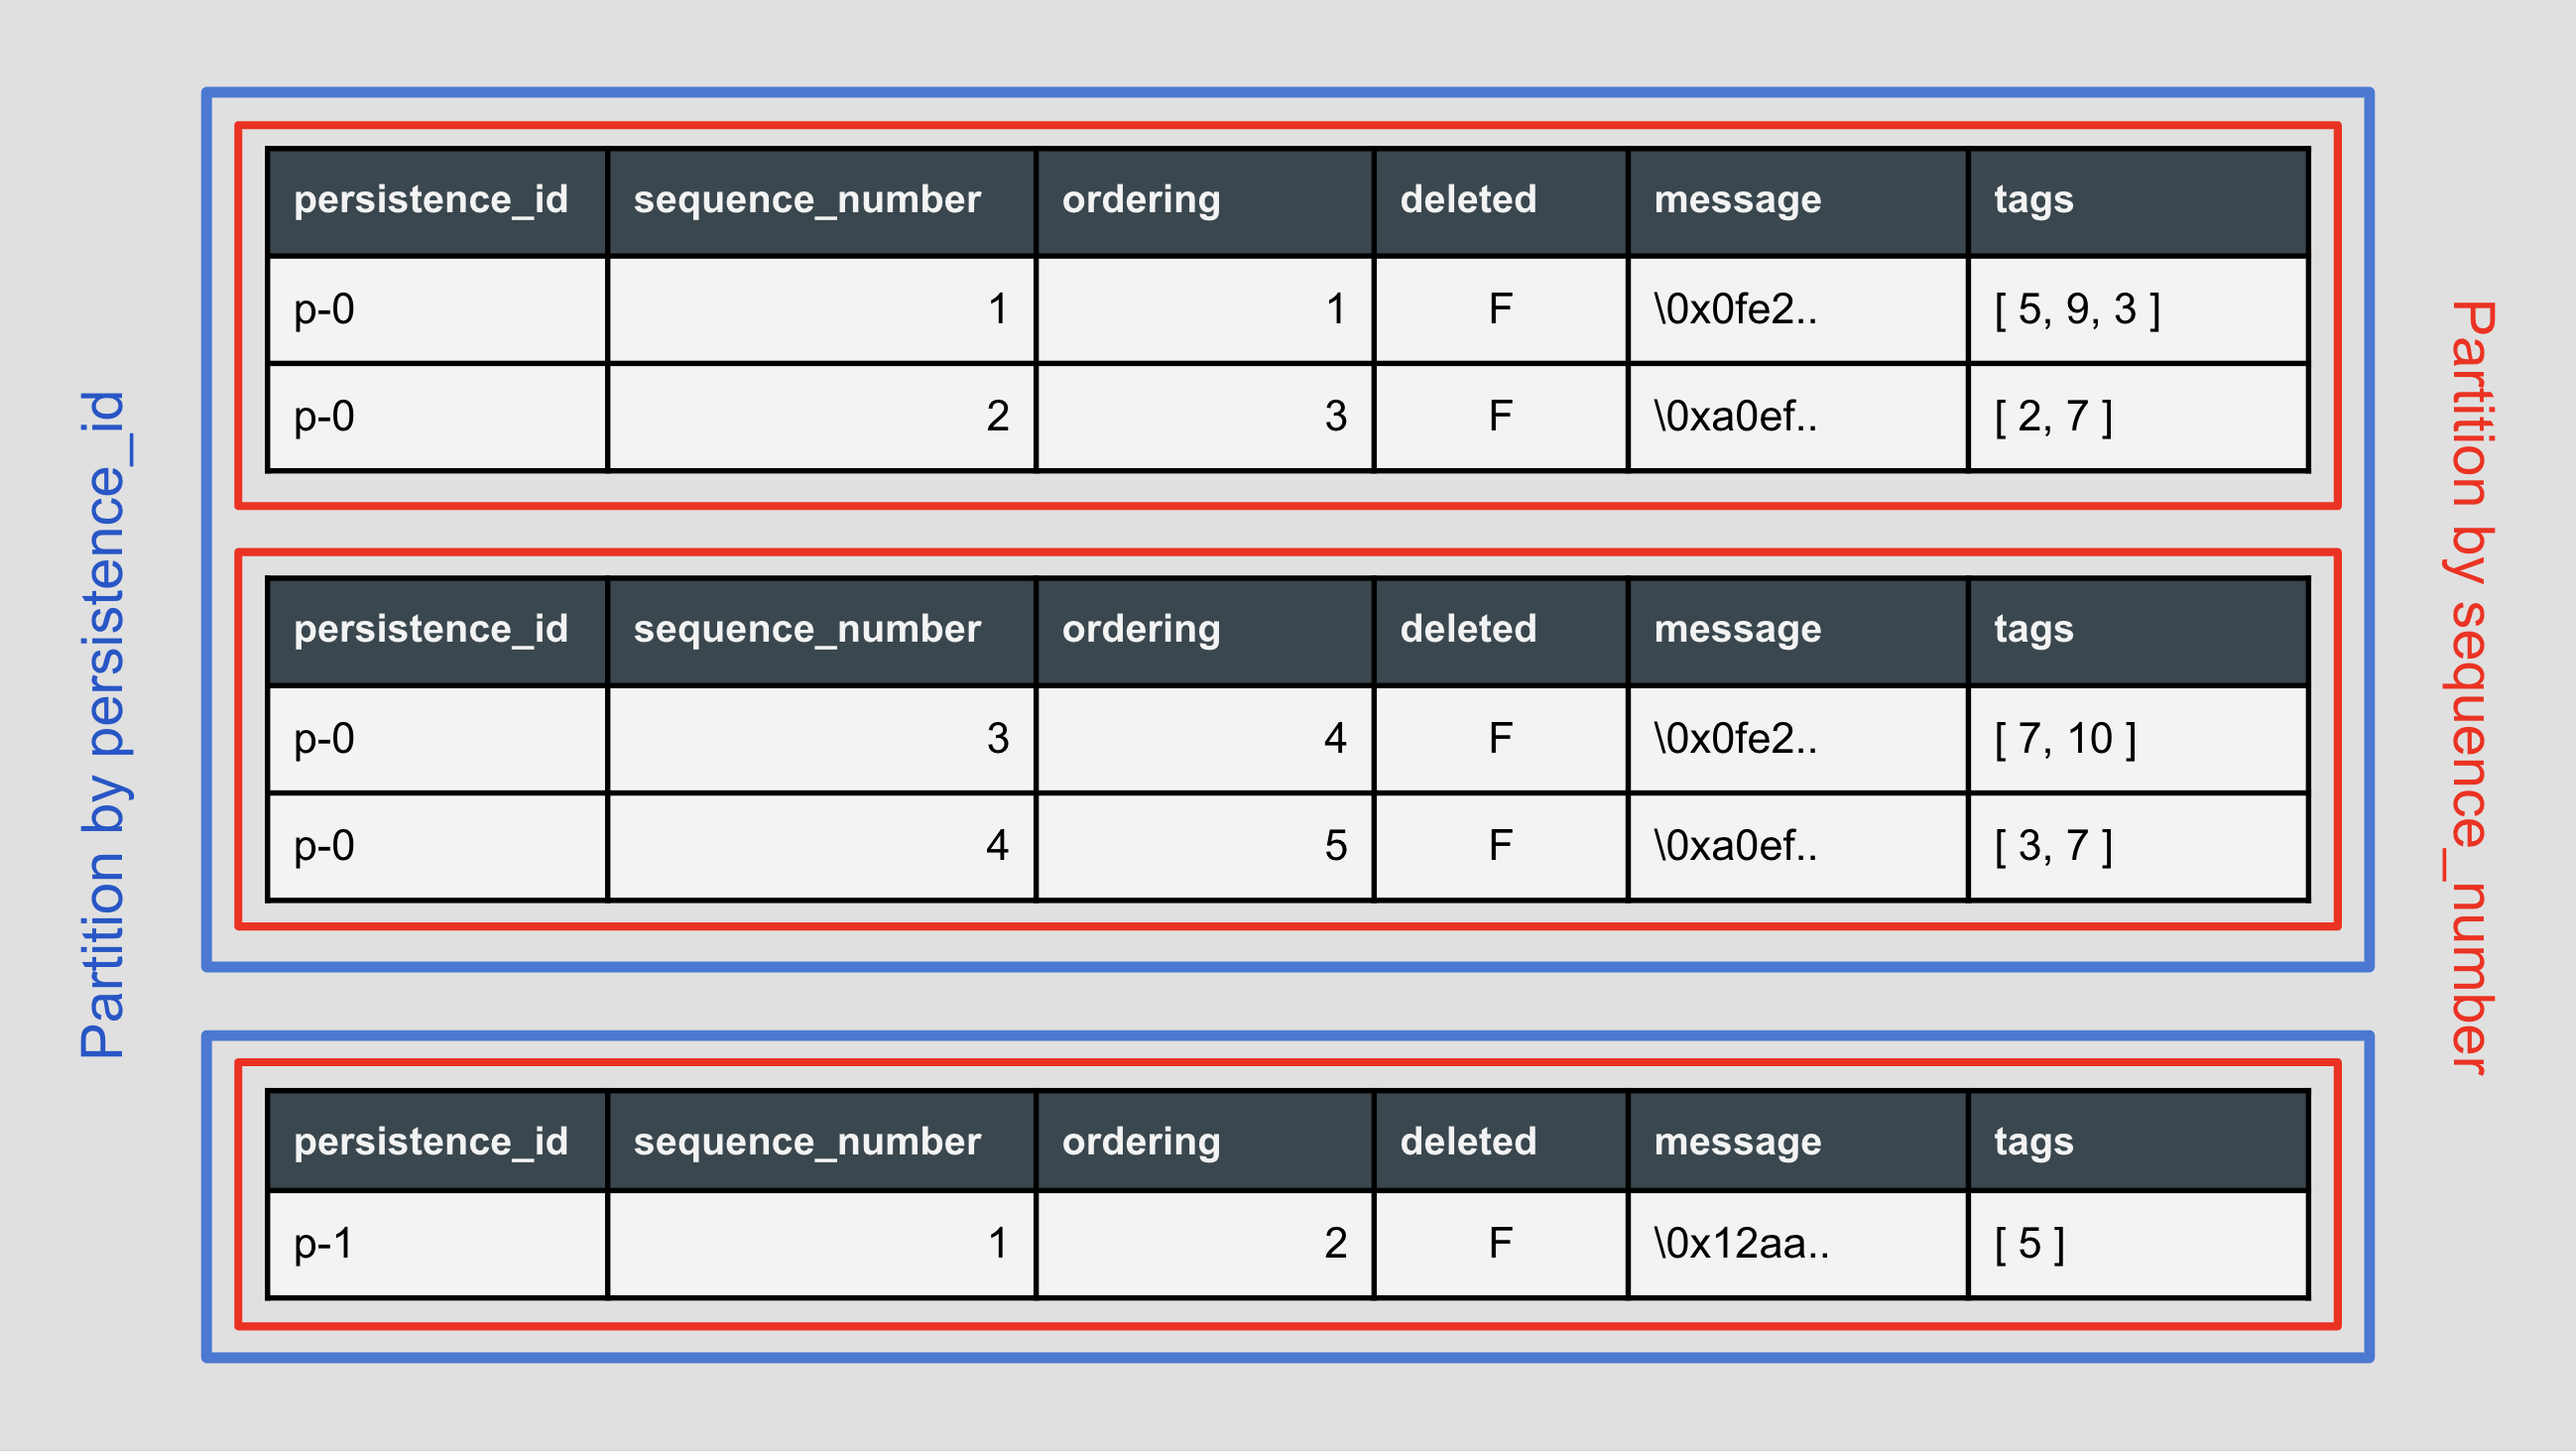
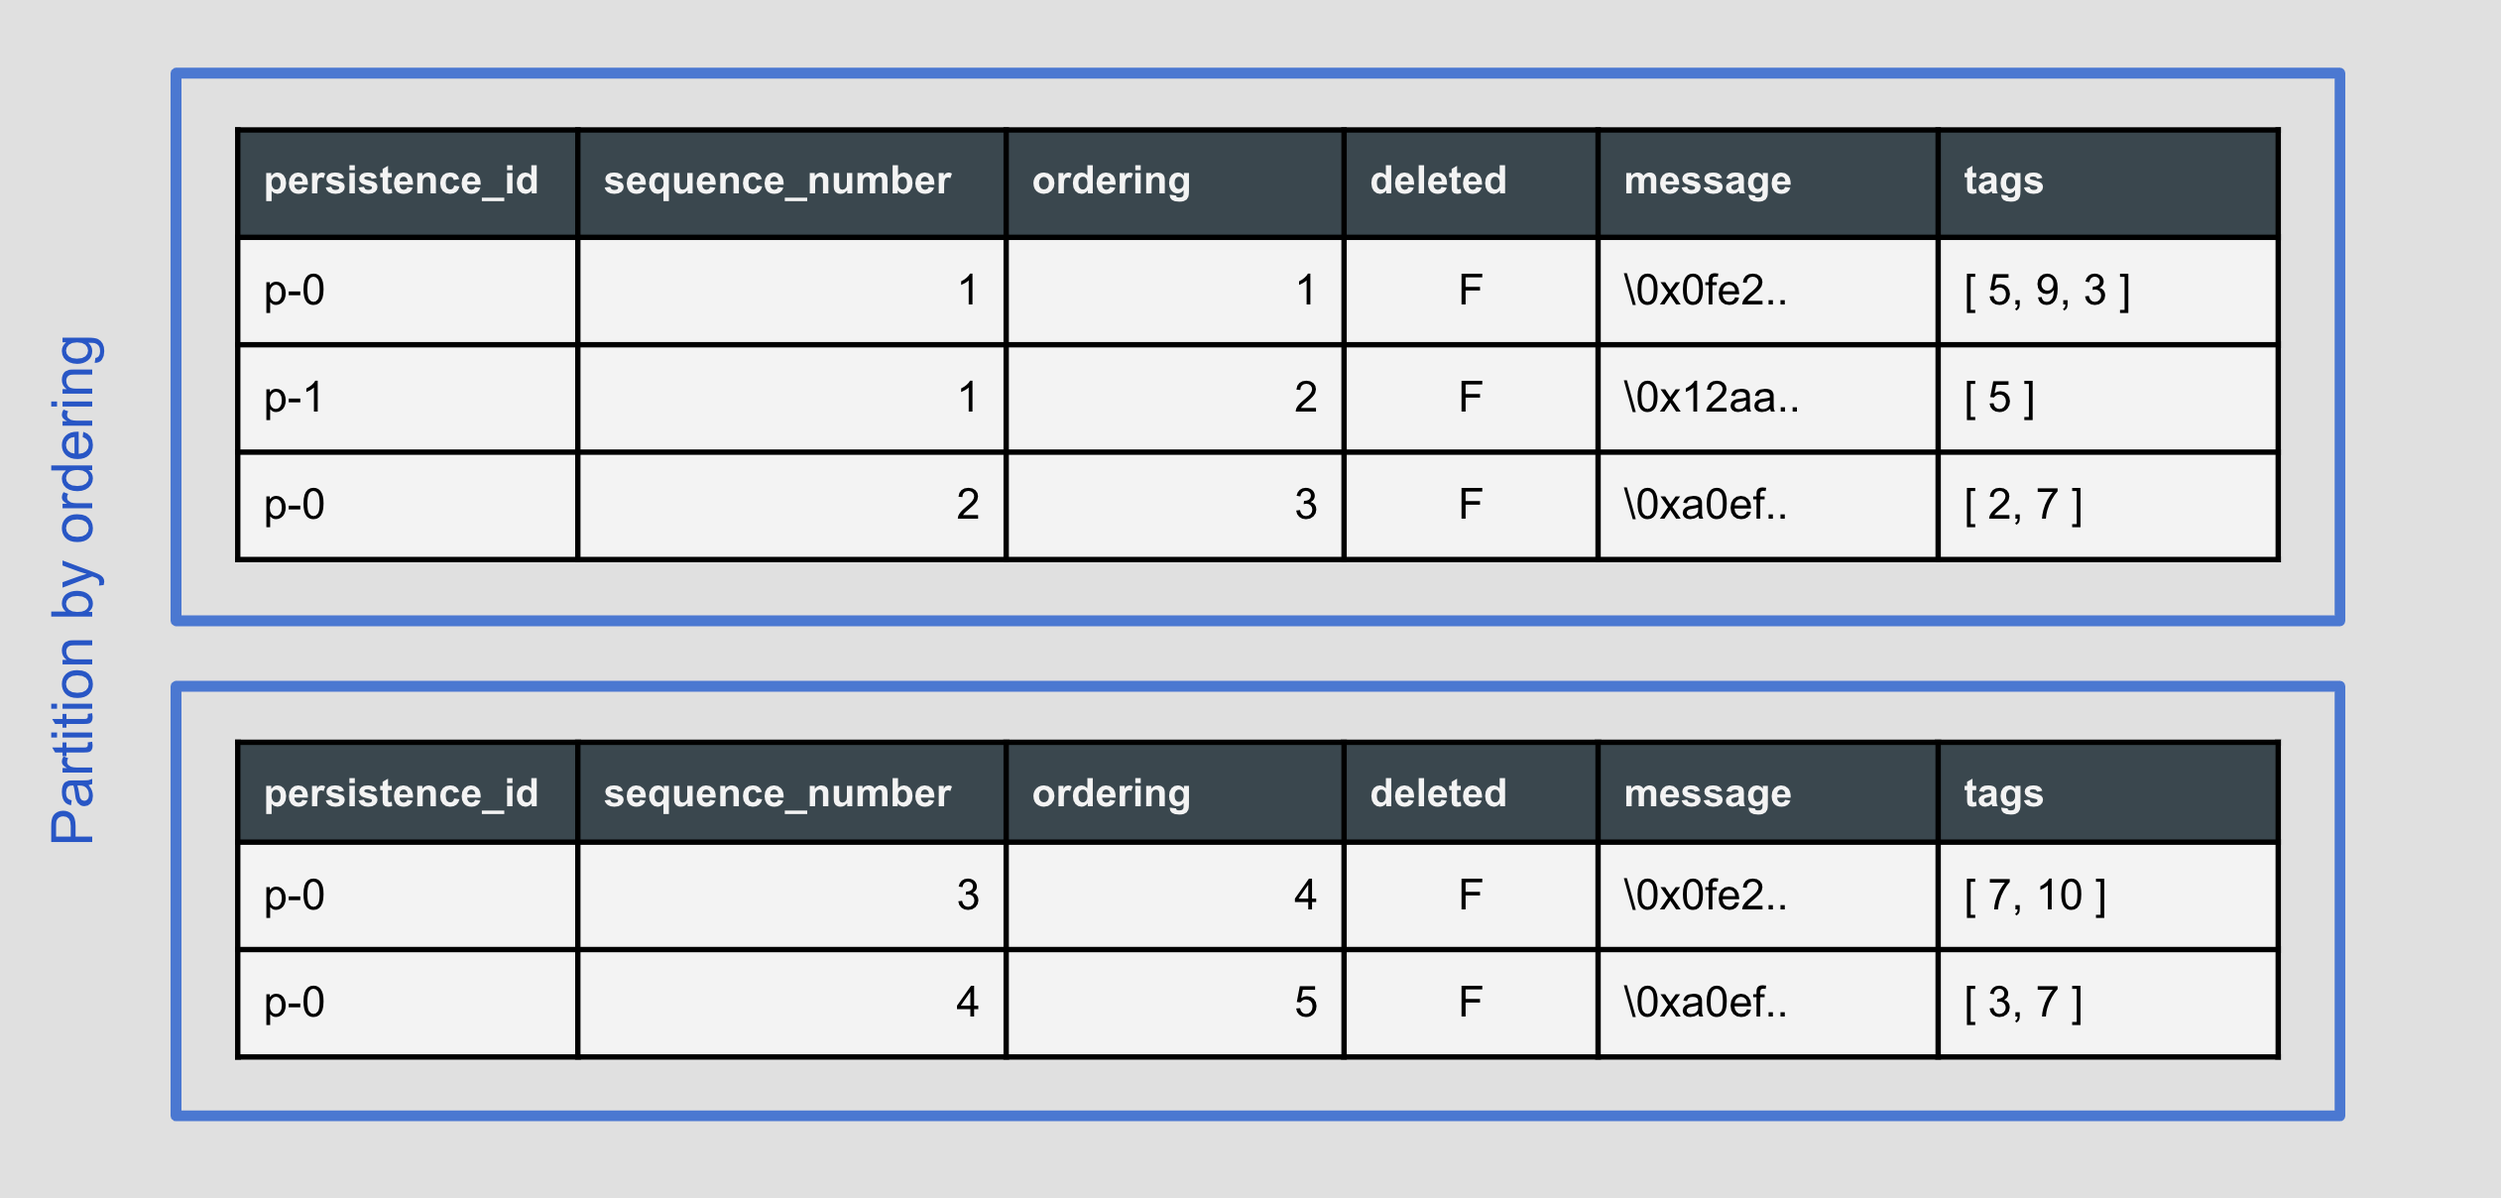
Update documentation

diff --git a/docs/basic-configuration.md b/docs/basic-configuration.md
@@ -108,10 +108,13 @@ Currently, the plugin supports two variants of the journal table schema:
 
 This is the default schema.
 
-*journal with nested partitions*  by persistenceId and sequenceNumber - this version allows you to shard your events by the persistenceId. Additionally each of the shards is split by sequenceNumber range to cap the indexes.
+*journal with nested partitions*  by persistenceId and sequenceNumber - this version allows you to shard your events by the persistenceId. Additionally, each of the shards is split by sequenceNumber range to cap the indexes.
 You can find the schema [here]({{ site.repo }}/core/src/test/resources/schema/postgres/nested-partitions-schema.sql).
 
 This variant is aimed for services that have a finite and/or small number of unique persistence aggregates, but each of them has a big journal.
+
+*journal partitioned by ordering* (offset) values - this schema fits scenarios with a huge or unbounded number of unique persistence units. Because ordering (offset) is used as a partition key, we can leverage [partition pruning](https://www.postgresql.org/docs/11/ddl-partitioning.html#DDL-PARTITION-PRUNING) while reading from the journal, thus gaining better performance.
+You can find the schema [here]({{ site.repo }}/core/src/test/resources/schema/postgres/partitioned-schema.sql).
 
 ### Using flat journal
 
@@ -123,9 +126,9 @@ You do not have to override anything in order to start using it, although if you
 postgres-journal.dao = "akka.persistence.postgres.journal.dao.FlatJournalDao"
 ```
 
-### Using partitioned journal
+### Using journal partitioned by persistence id and sequence number
 
-In order to start using partitioned journal, you have to create either a partitioned table (here is [the schema]({{ site.repo }}/core/src/test/resources/schema/postgres/nested-partitions-schema.sql)) and set the Journal DAO FQCN:
+In order to start using journal with nested partitions, you have to create a table with nested partitions (here is [the schema]({{ site.repo }}/core/src/test/resources/schema/postgres/nested-partitions-schema.sql)) and set the Journal DAO FQCN:
 ```hocon
 postgres-journal.dao = "akka.persistence.postgres.journal.dao.NestedPartitionsJournalDao"
 ```
@@ -145,6 +148,28 @@ The `prefix` can be configured by changing the `posgres-journal.tables.journal.p
 Example partition names: `j_myActor_0`, `j_myActor_1`, `j_worker_0` etc.
 
 Keep in mind that the default maximum length for a table name in Postgres is 63 bytes, so you should avoid any non-ascii characters in your `persistenceId`s and keep the `prefix` reasonably short.
+
+> :warning: Once any of the partitioning setting under  `postgres-journal.tables.journal.partitions` branch is settled, you should never change it.  Otherwise you might end up with PostgresExceptions caused by table name or range conflicts.
+
+### Using journal partitioned by ordering (offset)
+
+In order to start using partitioned journal, you have to apply [this schema]({{ site.repo }}/core/src/test/resources/schema/postgres/nested-partitions-schema.sql) and set the Journal DAO FQCN:
+```hocon
+postgres-journal.dao = "akka.persistence.postgres.journal.dao.PartitionedJournalDao"
+```
+
+#### Partition size
+The size of each partition (`ordering`’s range) can be changed by setting `postgres-journal.tables.journal.partitions.size`. By default partition size is set to `10000000` (10M).
+
+Partitions are automatically created by the plugin in advance. `PartitionedJournalDao` keeps track of created partitions and once ordering is out of the range for any known partitions, a new one is created.
+
+#### Partition table names
+
+Partitions follow the `prefix_partitionNumber` naming pattern.
+The `prefix` can be configured by changing the `posgres-journal.tables.journal.partitions.prefix` value. By default it’s set to `j`.
+`partitionNumber` is the ordinal number of the partition for a given partition id.
+
+Example partition names: `j_0`, `j_1`, `j_2` etc.
 
 > :warning: Once any of the partitioning setting under  `postgres-journal.tables.journal.partitions` branch is settled, you should never change it.  Otherwise you might end up with PostgresExceptions caused by table name or range conflicts.
 

diff --git a/docs/features.md b/docs/features.md
@@ -28,10 +28,15 @@ This is the default schema.
 
 ![]({{ 'assets/partitioning/flat-journal.png' | absolute_url }})
 
+### Journal partitioned by ordering (offset) values
+A journal partitioned by ordering (offset) values - this schema fits scenarios with a huge or unbounded number of unique persistence units. Because ordering (offset) is used as a partition key, we can leverage [partition pruning](https://www.postgresql.org/docs/11/ddl-partitioning.html#DDL-PARTITION-PRUNING) while reading from the journal, thus gaining better performance.
+You can find the schema [here]({{ site.repo }}/core/src/test/resources/schema/postgres/partitioned-schema.sql).
+![]({{ 'assets/partitioning/partitioned-journal.png' | absolute_url }})
+
 ### Journal with nested partitions
 A journal partitioned by persistenceId and sequenceNumber - this version allows you to shard your events by the persistenceId. Additionally, each of the shards is split by sequenceNumber range to cap the indexes.
 You can find the schema [here]({{ repo.url }}/core/src/test/resources/schema/postgres/nested-partitions-schema.sql).
-![]({{ 'assets/partitioning/partitioned-journal.png' | absolute_url }})
+![]({{ 'assets/partitioning/nested-partitions-journal.png' | absolute_url }})
 
 This variant is aimed for services that have a finite and/or small number of unique persistence aggregates, but each of them has a big journal.
 
@@ -55,6 +60,8 @@ The original plugin (akka-persistence-jdbc) uses B-Tree indexes on three columns
 
 
 Wherever it makes sense, we decided to use more lightweight [BRIN indexes](https://www.postgresql.org/docs/11/brin-intro.html).
+
+> [Journal partitioned by ordering](http://localhost:4000/features#journal-partitioned-by-ordering-offset-values) column still uses B-Tree index since partition keys has to be included in primary key which must be unique. Unfortunately BRIN indices cannot guard uniqueness.
 
 ## Tags as an array of int
 Akka-persistence-jdbc stores all tags in a single column as String separated by an arbitrary separator (by default it’s a comma character).
